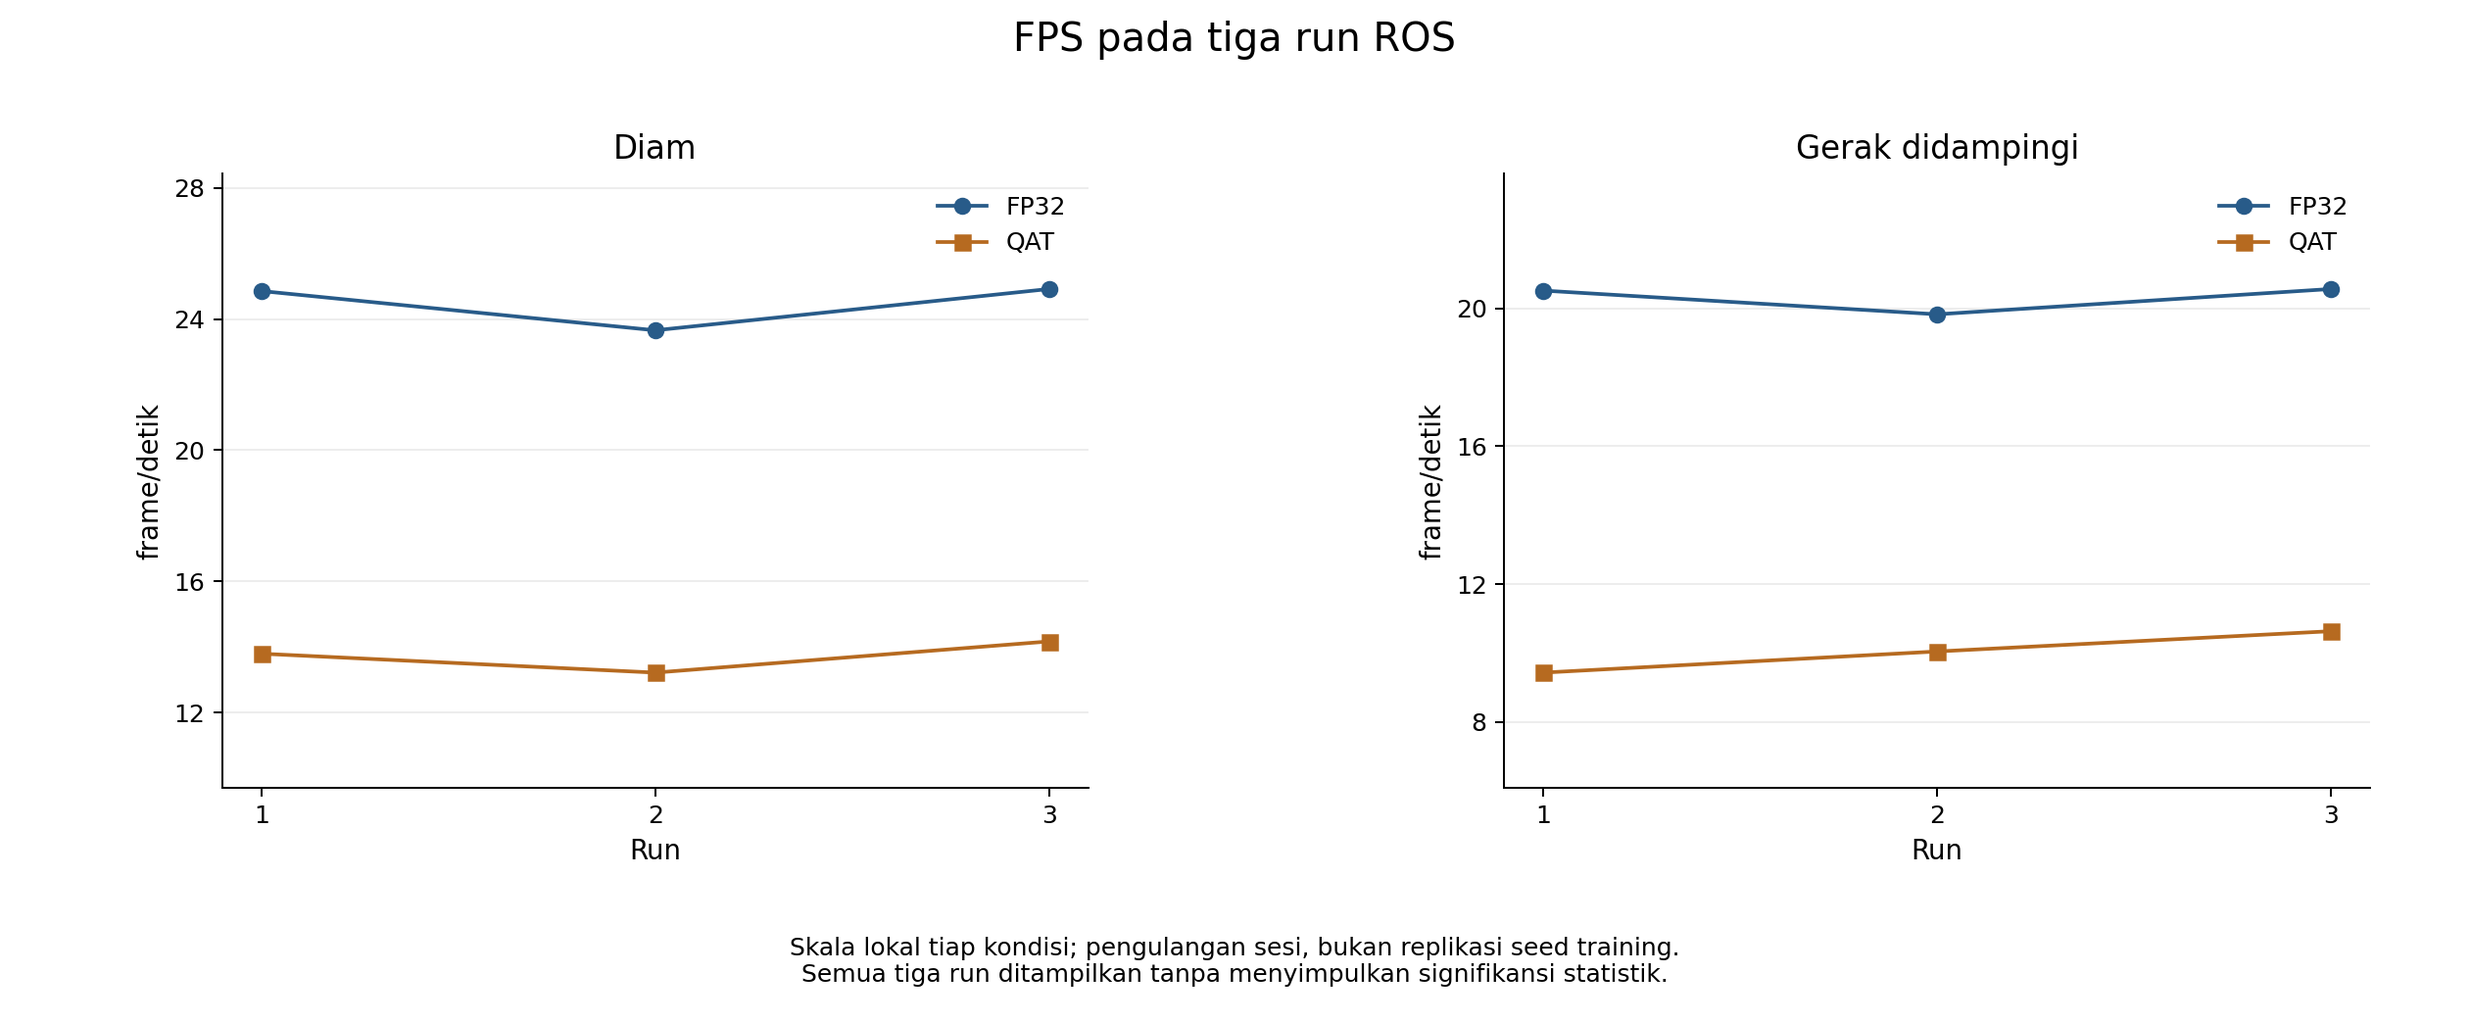
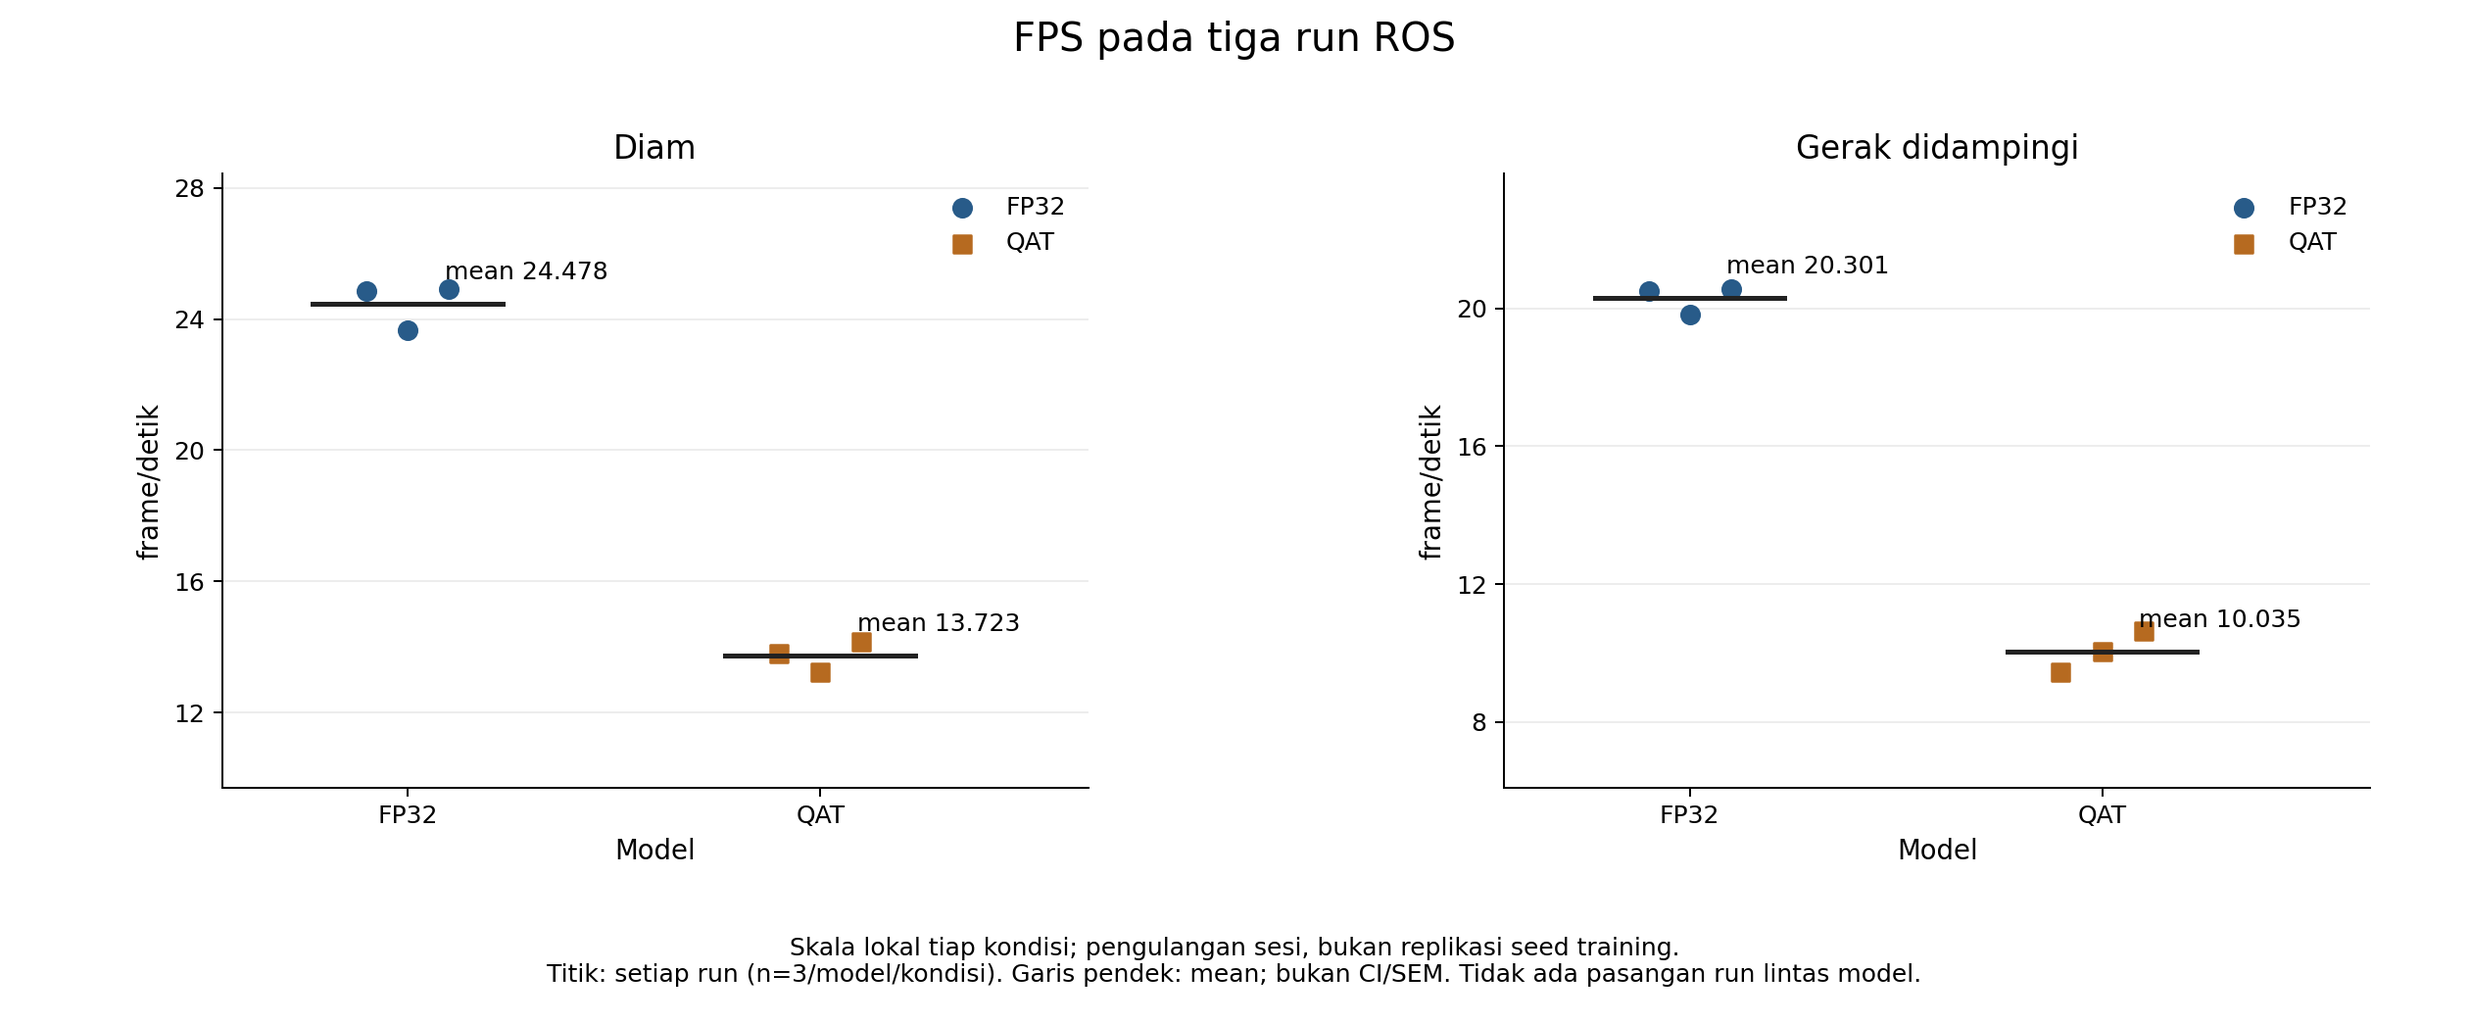
fix: align research figures with data types and document academic chart selection

diff --git a/scripts/reporting/generate_thesis_figures.py b/scripts/reporting/generate_thesis_figures.py
@@ -227,10 +227,13 @@ class Figures:
                     group_rows = sorted((r for r in runs if r['dataset'] == group), key=lambda r: r['run_id'])
                     y = [float(r[key]) for r in group_rows]
                     vals.extend(y)
-                    ax.plot(range(1, len(y)+1), y, color=COLORS[i], marker=['o', 's'][i], label=model.upper())
+                    ax.scatter(i + np.linspace(-.10, .10, len(y)), y, color=COLORS[i], marker=['o', 's'][i], s=55, label=model.upper())
+                    ax.plot([i-.23, i+.23], [np.mean(y)]*2, color='#222222', linewidth=2)
+                    ax.annotate(f'mean {np.mean(y):.3f}', (i, np.mean(y)), xytext=(15, 10), textcoords='offset points', fontsize=10)
                 ax.set_ylim(*local_limits(vals))
-                ax.set_xticks([1, 2, 3])
-                ax.set_xlabel('Run')
+                ax.set_xticks([0, 1], ['FP32', 'QAT'])
+                ax.set_xlim(-.45, 1.65)
+                ax.set_xlabel('Model')
                 ax.set_ylabel(unit)
                 ax.set_title(condition)
                 ax.legend(frameon=False)
@@ -238,7 +241,7 @@ class Figures:
             fig.suptitle(title + ' pada tiga run ROS', fontsize=16)
             self.save(fig, 'ros_runs_' + key, [runs_source],
                       'Skala lokal tiap kondisi; pengulangan sesi, bukan replikasi seed training.\n'
-                      'Semua tiga run ditampilkan tanpa menyimpulkan signifikansi statistik.')
+                      'Titik: setiap run (n=3/model/kondisi). Garis pendek: mean; bukan CI/SEM. Tidak ada pasangan run lintas model.')
 
         source = HARDWARE + 'comparison_models/20261007_four_models_run1/comparison_all.csv'
         all_rows = self.rows(source)
@@ -269,8 +272,25 @@ class Figures:
             style_axis(ax)
         fig.suptitle('Distribusi latensi CPU server', fontsize=16)
         self.save(fig, 'server_latency_distribution', sources,
-                  '300 iterasi/model, 30 warm-up; median dan sebaran dari CSV asli, outlier tetap terlihat.\n'
+                  '300 iterasi/model, 30 warm-up; box Q1–Q3, garis median, whisker 1,5 IQR; outlier tetap terlihat.\n'
                   'Server AMD EPYC 7413 adalah diagnostik host, bukan latensi robot.')
+
+        fig, axes = plt.subplots(1, 2, figsize=(14, 5.8))
+        for ax, key, title in zip(axes, ['inference_ms', 'loop_wall_ms'], ['Inferensi', 'Loop standalone']):
+            for i, source in enumerate(sources):
+                sample = np.sort([float(r[key]) for r in self.rows(source)])
+                ax.step(sample, np.arange(1, len(sample)+1)/len(sample), where='post',
+                        color=COLORS[i], linestyle=['-', '--', ':'][i], label=['FP32', 'PTQ', 'QAT'][i])
+            ax.set_xlabel('Latensi (ms)')
+            ax.set_ylabel('Proporsi observasi ≤ latensi')
+            ax.set_ylim(0, 1.03)
+            ax.set_title(title)
+            ax.legend(frameon=False)
+            style_axis(ax)
+        fig.suptitle('Distribusi kumulatif empiris latensi server', fontsize=16)
+        self.save(fig, 'server_latency_ecdf', sources,
+                  'ECDF memakai semua 300 observasi/model, tanpa bin atau asumsi distribusi.\n'
+                  'Observasi dalam sesi, bukan 300 replikasi eksperimen independen; server diagnostik.')
 
     def stability(self):
         source = STABILITY + 'latency/stability_run_01_frames.csv'
@@ -312,6 +332,20 @@ class Figures:
                   'Perubahan RSS kecil tetap berlabel MB. Satu run tidak membuktikan ada/tidak ada memory leak.')
 
     def write_index(self):
+        with (self.output / 'chart_selection_audit.csv').open('w', newline='') as stream:
+            writer = csv.writer(stream)
+            writer.writerow(['figure', 'chart_family', 'decision', 'sources', 'interpretation'])
+            for item in self.inventory:
+                name = item['figure']
+                family = ('run_dot_and_mean' if name.startswith('ros_runs_') else
+                          'ecdf' if name.endswith('_ecdf') else
+                          'boxplot_with_outliers' if name == 'server_latency_distribution' else
+                          'time_series' if name.startswith('stability_') else
+                          'line_by_epoch' if name.startswith(('fp32_', 'qat_c')) and name != 'qat_candidate_best' else
+                          'signed_delta_and_zero_bar' if name == 'test_overall_and_delta' else
+                          'small_multiple_dots' if name == 'test_overall_focused' else
+                          'zero_bar_and_dot_comparison')
+                writer.writerow([name, family, 'sesuai setelah peninjauan', '; '.join(item['sources']), item['note']])
         (self.output / 'figure_inventory.json').write_text(json.dumps(self.inventory, indent=2, ensure_ascii=False) + '\n')
         text = ['# Grafik hasil penelitian', '',
                 'Dibuat dari CSV/JSON beku, tanpa training, evaluasi ulang, atau pengukuran robot.', '',
@@ -327,7 +361,8 @@ class Figures:
         for item in self.inventory:
             text.append(f"| [{item['figure']}]({item['figure']}.png) | " + '<br>'.join(
                 f'[{p}](../../{p})' for p in item['sources']) + ' |')
-        text.extend(['', 'Lihat [alasan revisi dan cara menjalankan](../32_revisi_visualisasi_grafik.md).', ''])
+        text.extend(['', 'Lihat [alasan revisi dan cara menjalankan](../32_revisi_visualisasi_grafik.md).',
+                'Lihat [riset pemilihan grafik dan audit akademis](../33_pemilihan_grafik_akademis.md).', ''])
         (self.output / 'README.md').write_text('\n'.join(text))
 
 

diff --git a/scripts/reporting/figure_style.py b/scripts/reporting/figure_style.py
@@ -61,12 +61,14 @@ def comparison(overview, detail, categories, series, unit, decimals=3,
         raise ValueError('Absolute magnitude comparisons require nonnegative values')
     x = np.arange(len(categories))
     width = .72 / len(series)
+    if len(series) == 2:
+        detail.hlines(x, np.min(values, axis=0), np.max(values, axis=0), color='#AAAAAA', linewidth=1.4, zorder=1)
     for i, (name, ys) in enumerate(series.items()):
         color = COLORS[i % len(COLORS)]
         offset = (i - (len(series) - 1) / 2) * width
         bars = overview.bar(x + offset, ys, width, label=name, color=color)
         # Values are explicit on the focused panel to avoid crowded bar labels.
-        yp = x + (i - (len(series) - 1) / 2) * .20
+        yp = x if len(series) == 2 else x + (i - (len(series) - 1) / 2) * .20
         detail.scatter(ys, yp, s=52, color=color,
                        marker=['o', 's', '^', 'D', 'v'][i % 5], label=name, zorder=3, clip_on=False)
         for y, v in zip(yp, ys):
@@ -85,7 +87,7 @@ def comparison(overview, detail, categories, series, unit, decimals=3,
     detail.set_xlabel(unit)
     detail.set_title(f'Detail titik: rentang {low:.{decimals}f}–{high:.{decimals}f}')
     style_axis(detail, 'x')
-    return {'kind': 'magnitude_and_focused_dots', 'unit': unit,
+    return {'kind': 'magnitude_and_focused_dots', 'connector': 'within_category_aggregate' if len(series) == 2 else None, 'unit': unit,
             'overview_min': 0, 'focus_limits': [low, high],
             'categories': list(categories),
             'series': {k: [float(v) for v in vs] for k, vs in series.items()}}

diff --git a/scripts/reporting/test_figure_style.py b/scripts/reporting/test_figure_style.py
@@ -26,7 +26,9 @@ class FigureContracts(unittest.TestCase):
         self.assertEqual(axes[0].get_ylim()[0], 0)
         np.testing.assert_allclose([p.get_height() for p in axes[0].patches],
                                    [93.13469, 95.05717, 93.41156, 95.02079])
-        for collection, expected in zip(axes[1].collections, series.values()):
+        from matplotlib.collections import PathCollection
+        dots = [c for c in axes[1].collections if isinstance(c, PathCollection)]
+        for collection, expected in zip(dots, series.values()):
             np.testing.assert_allclose(collection.get_offsets()[:, 0], expected)
         plt.close(fig)
 

diff --git a/docs/33_pemilihan_grafik_akademis.md b/docs/33_pemilihan_grafik_akademis.md
@@ -1,0 +1,90 @@
+# Pemilihan grafik akademis: dasar riset dan audit repositori
+
+Ditinjau 28 Oktober 2026. Tujuannya memilih bentuk sesuai pertanyaan, cakupan pengukuran,
+dan jumlah observasi, bukan membuat seluruh hasil tampak meningkat. Tidak ada jenis grafik
+yang menjamin persetujuan penguji; pilihan berikut memiliki alasan yang dapat dijelaskan.
+
+## Apa yang dipakai penelitian lain?
+
+1. **Jacob et al., Quantization and Training of Neural Networks for Efficient
+   Integer-Arithmetic-Only Inference.** Versi arXiv v1, bagian 4.2 dan Gambar 4.1–4.2,
+   menyajikan hubungan latency–accuracy pada perangkat tertentu. Tabel 4.4 menyandingkan
+   kualitas deteksi dan waktu. Contohnya menunjukkan bahwa perbandingan harus menjaga
+   konteks perangkat dan evaluasi, bukan bahwa semua hasil harus berupa batang.
+   [Naskah lengkap](https://arxiv.org/html/1712.05877v1).
+2. **Chen et al., AQD: Towards Accurate Fully-Quantized Object Detection.** Versi
+   arXiv v5, Tabel 2, membandingkan AP, AP50, AP75, dan ukuran objek menurut model/presisi.
+   Tabel cocok untuk banyak metrik yang harus dibaca tepat. Contoh ini mendukung tetap
+   menyediakan tabel angka bersama grafik ringkas, bukan menghubungkan semua metrik
+   menjadi satu kurva. [PDF lengkap](https://arxiv.org/pdf/2007.06919).
+3. **Nature Biomedical Engineering, Show the dots in plots (2017).** Editorial
+   menyarankan menampilkan observasi individual, terutama sampel kecil. Ini mendasari
+   tampilan tiga titik run, bukan menyembunyikan pengulangannya di balik rata-rata.
+   [Artikel](https://doi.org/10.1038/s41551-017-0079). Halaman penuh mengalami pengalihan
+   akses saat penelusuran; rekomendasi ini dibatasi pada ringkasan penerbit yang tersedia.
+4. **ONS, Choosing a chart type dan Bar chart.** Pemilihan mengikuti hubungan yang
+   hendak dijelaskan. Connected-dot dapat memperlihatkan besaran dan selisih; batang
+   memakai nol sebagai dasar panjang. [Pemilihan bentuk](https://service-manual.ons.gov.uk/data-visualisation/chart-types/choosing-a-chart-type),
+   [aturan batang](https://service-manual.ons.gov.uk/data-visualisation/chart-types/bar-charts).
+5. **CDC, Box-and-Whiskers Plot.** Box plot digunakan untuk distribusi, dengan median,
+   kuartil, dan aturan outlier yang dijelaskan. Karena repositori menyimpan latensi mentah,
+   distribusinya dapat ditampilkan, bukan hanya mean.
+   [Panduan](https://www.cdc.gov/cove/data-visualization-types/box-and-whiskers-plot.html).
+
+Penerapan di bawah adalah keputusan untuk data penelitian ini, bukan ketentuan wajib
+yang diklaim berasal dari semua paper tersebut. Nomor gambar/tabel merujuk versi yang ditautkan.
+
+## Data seperti apa memakai grafik apa?
+
+| Data dan pertanyaan | Bentuk utama | Alasan dan batasnya |
+| --- | --- | --- |
+| Jumlah citra/anotasi tiap split | Batang mulai nol, tabel angka | Membandingkan jumlah diskret. Citra dan anotasi tidak ditumpuk karena bukan bagian dari total yang sama. |
+| Lima kandidat QAT, skor terbaik | Dot plot berlabel dan tabel | Kandidat merupakan kategori, bukan waktu; tidak perlu garis penghubung C1–C5. Skala lokal membuat selisih kecil terbaca. |
+| Loss dan metrik menurut epoch | Line chart, panel per metrik | Epoch benar-benar berurutan. TRAIN/VAL berbagi skala dalam panel; panel berbeda tidak dibaca sebagai besar perubahan yang setara. |
+| FP32–QAT pada TEST atau per kelas | Connected-dot/dumbbell, grafik delta, tabel | Penghubung membandingkan dua skor agregat dalam kategori yang sama. Bukan pasangan citra atau bukti signifikansi. |
+| Lima jenis metrik TEST | Small multiples | Precision, recall dan mAP tidak disambungkan sebagai deret waktu. Selisih persen dinyatakan dalam poin persentase. |
+| Mean/P95/FPS/CPU/RSS model | Batang konteks nol + titik detail | Membaca besaran dan selisih. Mean/P95 tetap ringkasan; tidak menggantikan distribusi mentah. |
+| Tiga run ROS per model/kondisi | Strip/dot plot seluruh run + mean | n=3 terlihat langsung. Tidak ada garis lintas run/model yang menyiratkan tren atau pasangan pengukuran. Mean di sini antar-run, bukan pooled-frame mean. |
+| Ratusan latensi dalam satu sesi | Box plot dan ECDF | Box menunjukkan median, Q1–Q3, whisker 1,5 IQR, dan outlier. ECDF menunjukkan proporsi observasi di bawah ambang tanpa pemilihan bin. Bukan ratusan replikasi independen. |
+| Latensi/CPU/RSS terhadap detik | Time series, panel terpisah | Menampilkan perubahan dan lonjakan sepanjang pengamatan. Ringkasan 5 detik melengkapi, tidak menghapus observasi asli. |
+| Precision–recall | PR curve evaluator | Memerlukan pasangan precision/recall pada berbagai ambang; tidak dapat dibuat dari satu skor mAP. |
+| Salah prediksi antar kelas | Confusion-matrix heatmap | Perlu hitungan asli dan definisi normalisasi. Matriks arsip tidak dilabel ulang sebagai evaluasi final yang berbeda. |
+| Accuracy–latency trade-off | Scatter jika evaluasi dan artefak sebanding | Belum dibuat untuk TEST-versus-ROS di sini: TEST checkpoint PyTorch dan runtime IR tidak membentuk pasangan evaluasi berlabel deployment yang terverifikasi. |
+
+## Hasil audit dan perubahan yang dilakukan
+
+- Bentuk yang sudah sesuai dipertahankan: kurva epoch, time series stabilitas, grafik delta,
+  konteks batang nol, dan panel titik. Semua hasil naik maupun turun tetap tampil.
+- Panel detail FP32–QAT memakai **dumbbell** dengan titik pada kategori yang sejajar.
+  Penghubung hanya menunjukkan selisih agregat dalam kategori itu.
+- Dua grafik keterulangan ROS diganti dari garis antar-run menjadi **tiga titik per model
+  dan penanda mean antar-run**. Nomor run yang sama bukan bukti pasangan lintas model.
+- Grafik distribusi server menjelaskan **whisker 1,5 IQR** dan menampilkan outlier;
+  **ECDF** ditambahkan untuk membaca proporsi latensi tanpa asumsi bentuk distribusi.
+- Seluruh gambar hasil generator diindeks dalam `chart_selection_audit.csv`, dengan
+  keluarga grafik, sumber, keputusan, dan batas interpretasi. Galeri:
+  [docs/figures](figures/README.md).
+- Grafik evaluator dan gambar eksperimen historis tidak ditimpa. Bentuk PR curve,
+  confusion matrix, dan bukti deteksi sesuai fungsinya; perbedaan arsip QAT terhadap
+  JSON final tetap perlu disebut saat digunakan, sebagaimana revisi sebelumnya.
+
+## Pilihan yang sengaja dihindari
+
+Tidak memakai radar untuk membandingkan metrik yang perbedaannya kecil, 3D, dua sumbu
+untuk CPU dan memori, batang dengan dasar terpotong, atau box plot untuk tiga skor
+agregat. Tidak membuat error bar/CI dari satu skor TEST. SD/SEM/CI tidak dipertukarkan.
+Kalau kelak ada replikasi training, ketidakpastian kualitas dapat dihitung sesuai unit
+replikasinya. Distribusi frame satu sesi tidak menggantikan replikasi eksperimen.
+
+## Membuat ulang dan memeriksa
+
+```bash
+python scripts/reporting/generate_thesis_figures.py
+python -m unittest scripts.reporting.test_figure_style -v
+```
+
+Generator menulis PNG dan audit setiap gambar. Opsi `--formats png svg pdf` menghasilkan
+format vektor. Sebelum dimasukkan ke dokumen, pilih grafik yang menjawab pembahasan;
+tabel detail tetap disediakan untuk angka tepat. Word/PPT yang sudah diekspor memerlukan
+penggantian gambar tersendiri. Pedoman format khusus FILKOM dan arahan pembimbing tetap
+menjadi acuan tata letak akhir.

diff --git a/docs/figures/README.md b/docs/figures/README.md
@@ -57,7 +57,9 @@ Batang absolut dimulai dari nol. Panel titik memakai skala lokal yang tertulis. 
 | [standalone_camera_process_cpu_mean_percent](standalone_camera_process_cpu_mean_percent.png) | [experiments/hardware_op3/comparison_models/20261007_four_models_run1/comparison_all.csv](../../experiments/hardware_op3/comparison_models/20261007_four_models_run1/comparison_all.csv) |
 | [standalone_camera_rss_mean_mb](standalone_camera_rss_mean_mb.png) | [experiments/hardware_op3/comparison_models/20261007_four_models_run1/comparison_all.csv](../../experiments/hardware_op3/comparison_models/20261007_four_models_run1/comparison_all.csv) |
 | [server_latency_distribution](server_latency_distribution.png) | [experiments/server_openvino/server_benchmark_fp32.csv](../../experiments/server_openvino/server_benchmark_fp32.csv)<br>[experiments/server_openvino/server_benchmark_ptq_int8.csv](../../experiments/server_openvino/server_benchmark_ptq_int8.csv)<br>[experiments/server_openvino/server_benchmark_qat_int8.csv](../../experiments/server_openvino/server_benchmark_qat_int8.csv) |
+| [server_latency_ecdf](server_latency_ecdf.png) | [experiments/server_openvino/server_benchmark_fp32.csv](../../experiments/server_openvino/server_benchmark_fp32.csv)<br>[experiments/server_openvino/server_benchmark_ptq_int8.csv](../../experiments/server_openvino/server_benchmark_ptq_int8.csv)<br>[experiments/server_openvino/server_benchmark_qat_int8.csv](../../experiments/server_openvino/server_benchmark_qat_int8.csv) |
 | [stability_latency](stability_latency.png) | [experiments/hardware_op3/stability_qat/20261007_ros_qat/latency/stability_run_01_frames.csv](../../experiments/hardware_op3/stability_qat/20261007_ros_qat/latency/stability_run_01_frames.csv) |
 | [stability_resources](stability_resources.png) | [experiments/hardware_op3/stability_qat/20261007_ros_qat/resources/stability_run_01.csv](../../experiments/hardware_op3/stability_qat/20261007_ros_qat/resources/stability_run_01.csv) |
 
 Lihat [alasan revisi dan cara menjalankan](../32_revisi_visualisasi_grafik.md).
+Lihat [riset pemilihan grafik dan audit akademis](../33_pemilihan_grafik_akademis.md).

diff --git a/README.md b/README.md
@@ -24,7 +24,7 @@ Eksperimen export awal dipertahankan sebagai riwayat pengembangan, sedangkan IR 
 [Galeri grafik hasil](docs/figures/README.md) menyediakan konteks batang dari nol,
 tampilan titik berskala lokal, dan selisih bertanda agar perbedaan kecil terbaca.
 [Catatan revisi dan cara membuat ulang](docs/32_revisi_visualisasi_grafik.md)
-menjelaskan pemilihan skala. Seluruh grafik dibuat dari CSV/JSON yang sudah tersimpan,
+menjelaskan pemilihan skala. [Riset dan audit pemilihan grafik](docs/33_pemilihan_grafik_akademis.md) memetakan jenis data ke bentuk grafik dan sumber akademisnya. Seluruh grafik dibuat dari CSV/JSON yang sudah tersimpan,
 tanpa menjalankan training atau pengukuran baru.
 
 ## Peta cepat

diff --git a/docs/32_revisi_visualisasi_grafik.md b/docs/32_revisi_visualisasi_grafik.md
@@ -85,3 +85,7 @@ PR curve dan confusion matrix tidak direkonstruksi dari skor agregat.
 Pilih grafik detail ketika membahas selisih kecil. Konteks besaran tetap ada pada gambar
 pasangan. Dokumen Word dan PPT yang sudah diekspor tidak otomatis berubah oleh pembaruan
 repository ini; gambar baru dapat menggantikan gambar lama dengan judul/caption yang sesuai.
+
+## Peninjauan pemilihan jenis grafik
+
+[Riset dan audit akademis lanjutan](33_pemilihan_grafik_akademis.md) menjelaskan pemilihan bentuk, termasuk titik tiap run, dumbbell, box plot, dan ECDF.
